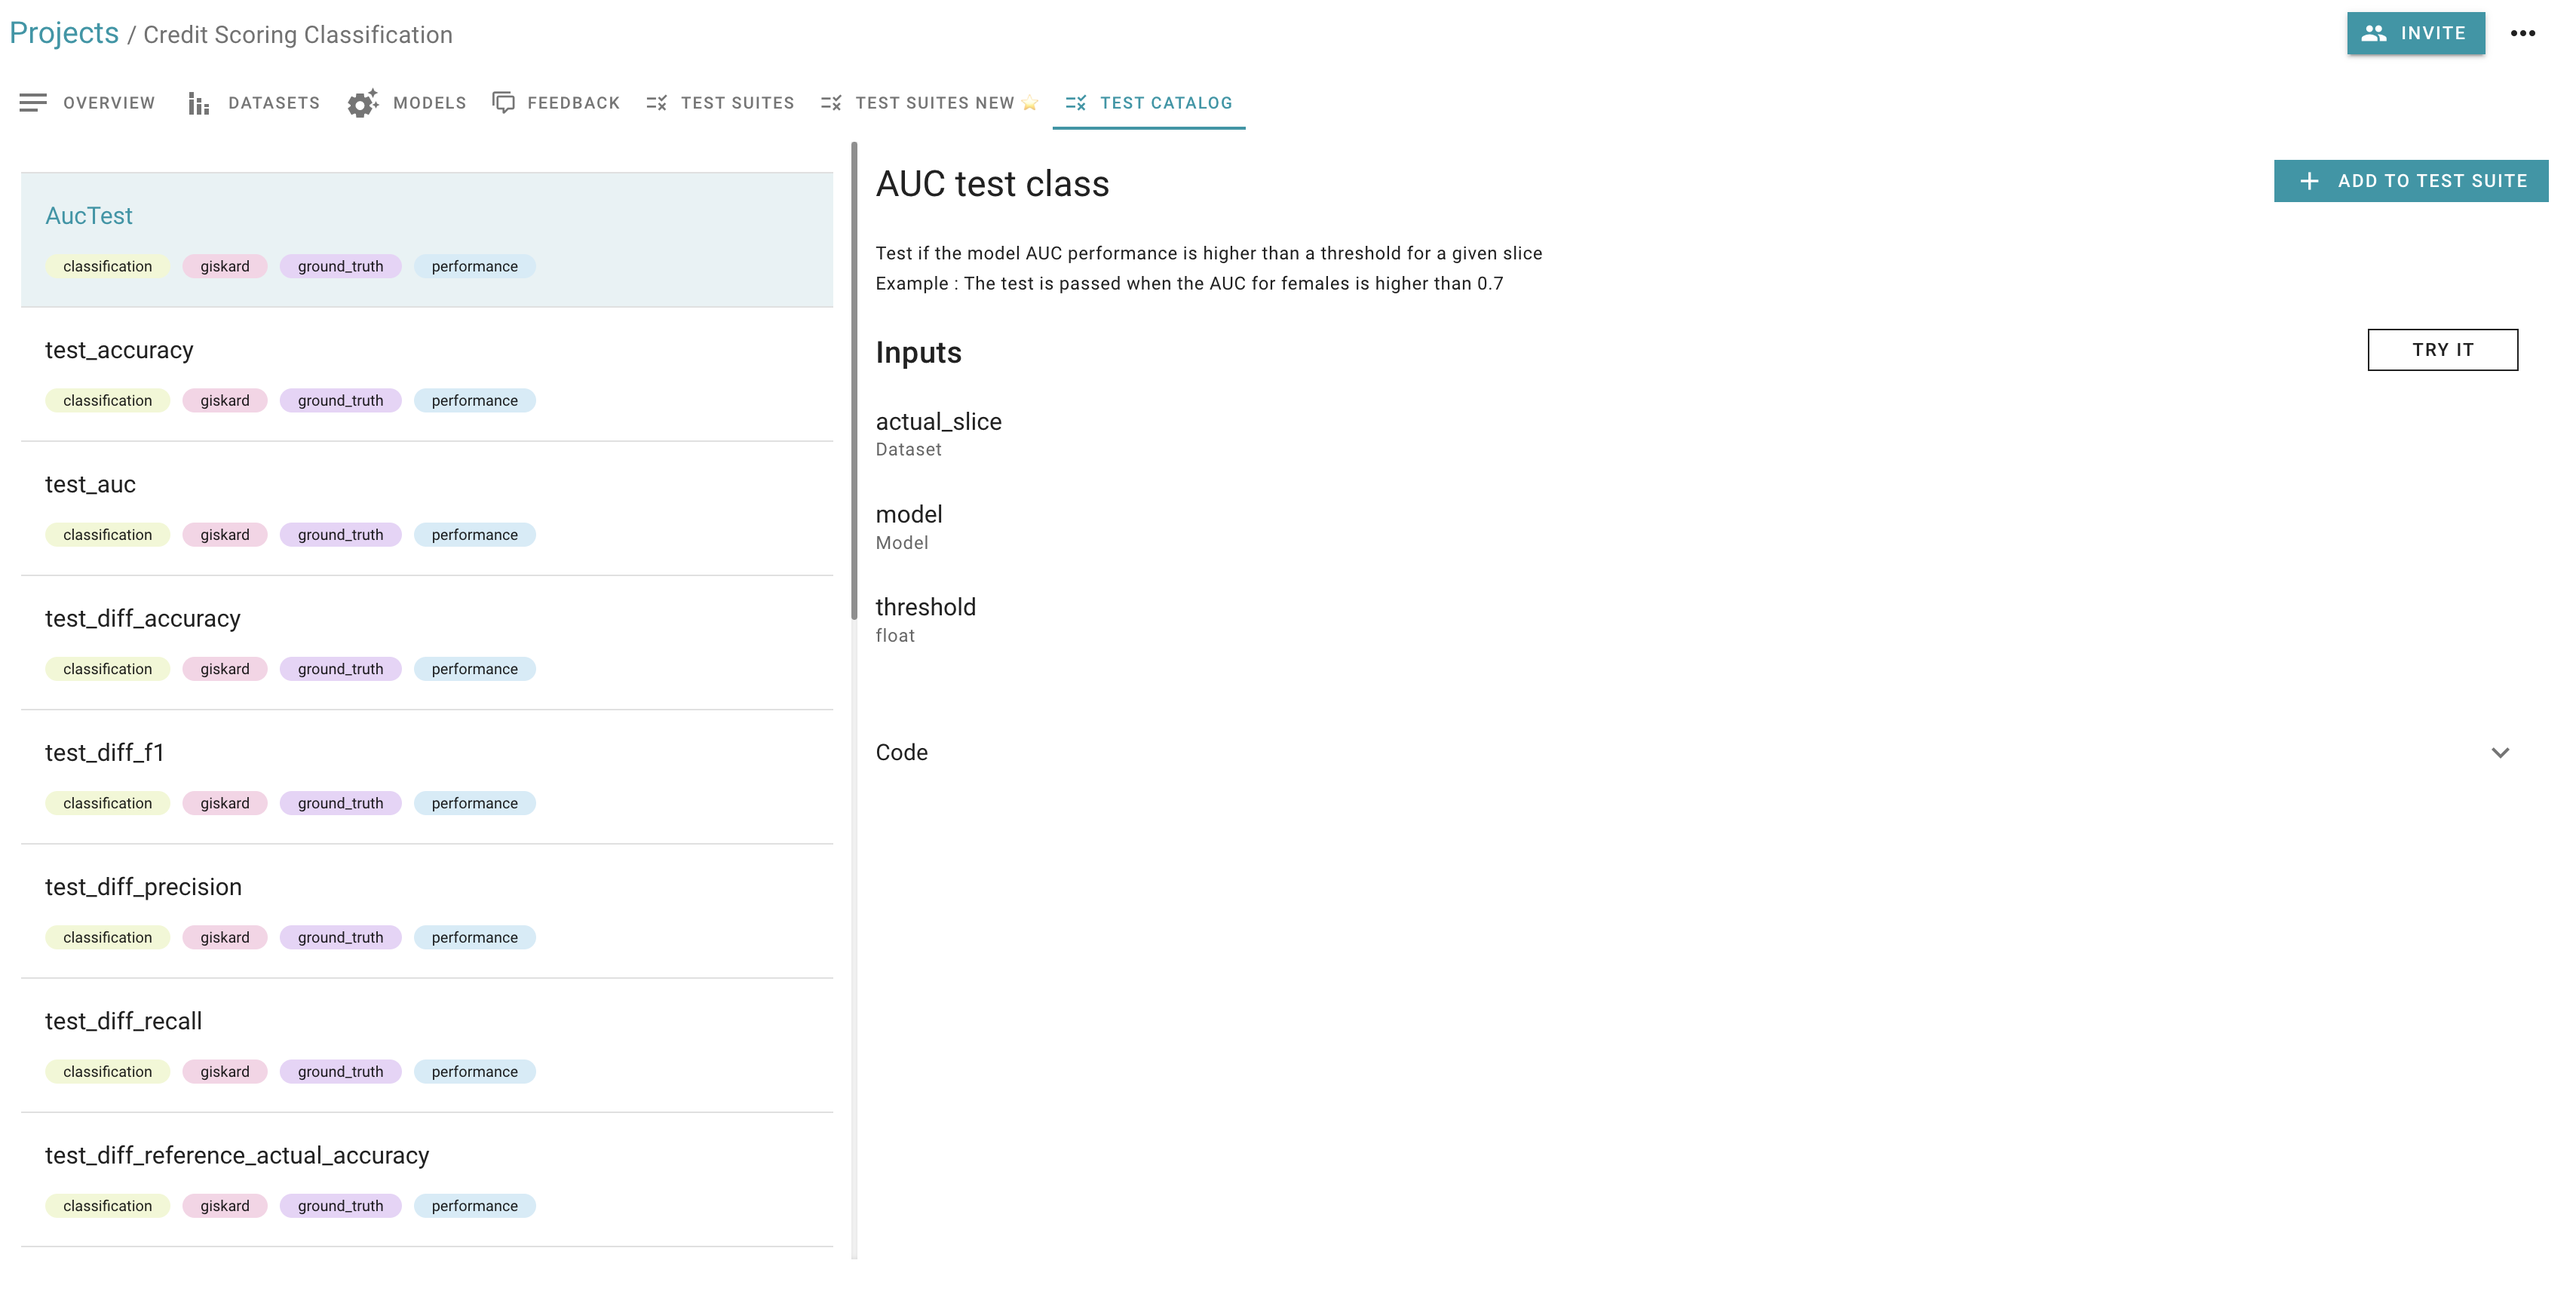
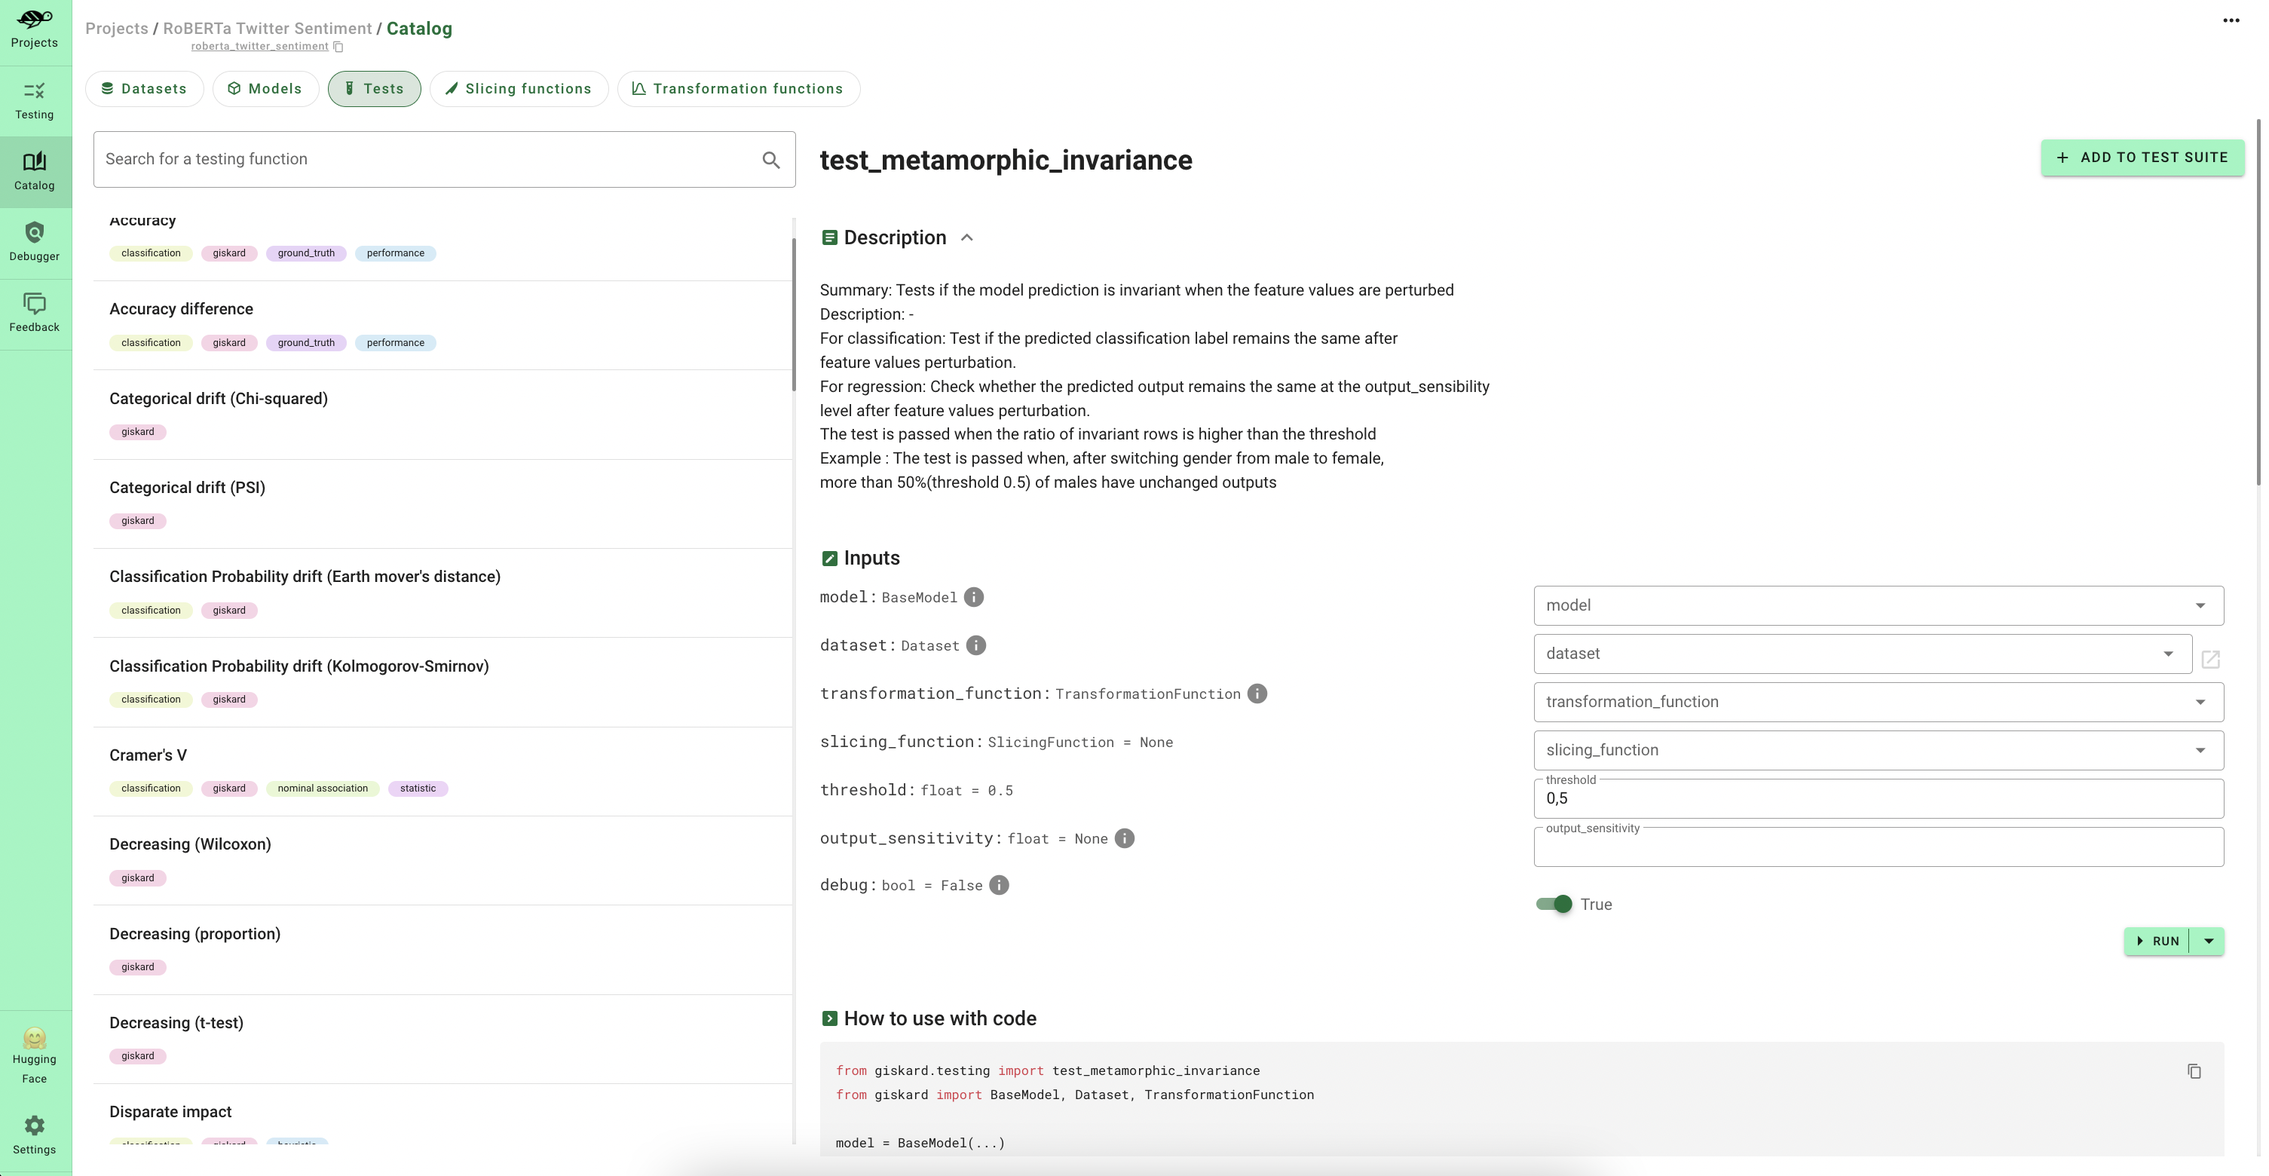
add domain specific tests

diff --git a/docs/giskard_hub/write_and_debug_tests/index.md b/docs/giskard_hub/write_and_debug_tests/index.md
@@ -1,15 +1,42 @@
-# 👨🔬 Write and debug tests
+# 👨🔬 Add domain-specific tests
 
-[//]: # (TODO: create content, needs to include screenshots and instructions)
+Now that you [scan](../../open_source/scan/index.md) your model, you've got a first test suite covering the biggest [vulnerabilities](../../knowledge/llm_vulnerabilities/index.rst). But, real models usually need **hundreds of business specific tests** to be ready for production. While the tests creation task can be fastidious, Giskard enables you to **semi-automate** this process.
 
-[//]: # (- How to write a test?)
+In this section, we'll see how to enrich the tests you initially created from the [scan](../../open_source/scan/index.md) by:
+* Adding tests from the automatic model insights
+* Adding tests from the Giskard catalog
 
-[//]: # (    - From the catalog)
 
-[//]: # (    - Load from Python)
+## Add tests from the automatic model insights
 
-[//]: # (    - From the push feature)
+While you [debug](../inspect/index.md) your test suite, Giskard provides some magic notifications displaying a bulb 💡. These model insights covers various issues such as:
+* Words or features that **contributes** to the incorrect prediction
+* **Unrobust** predictions
+* **Overconfident** predictions
+* **Underconfident** predictions
 
-[//]: # (- Debug your test)
+By clicking on these small bulbs 💡, you have the possibility to:
+* Add new **tests** to your test suite: this enables you add new tests in 1 click
+* **Save** the data slice: this enables you to add this slice as a parameter of your future tests
+* Directly **debug** the data slice: this enables you to analize if the model insight is general to the whole slice
 
-Coming soon!
+![Push](../../assets/push.png)
+
+## Add tests from the Giskard catalog
+
+The Giskard catalog is an **open-source** catalog that is constantly updated by the community. It proposes some **pre-made tests** that you can easily configure depending on your business case by putting some domain specific slices & transformations or evalution criteria as **inputs** of your tests.
+
+To add tests from the catalog, click on "add test" in your test suite tab. This will redirect you to the catalog showing all Giskard tests. You then have the possibility to run your test before adding it to your suite. 
+
+> ⚠ Warning
+> * If you add a test **without** specifying the input of your test, you'll be asked to define the input at **suite execution time**. This input will become a *suite input*. For instance, model are great suite input if you can to [compare different model](../compare_models/index.md) with the same test suite.
+> * If you add a test by **specifying the input** of your test, you won't be asked to define it at suite 
+> execution time. This input becomes a *fixed value* of your suite. For instance, data slices or thresholds are 
+> great fixed values because they are inherent to your suite.
+>
+> 💡 You can also define test input as *suite input* or *fixed value* by editing the parameters of your test 
+> suite.
+
+![Catalog](../../assets/catalog.png)
+
+> 💡 Try in live with our Hugging Face space: [here](https://giskardai-giskard.hf.space/main/projects)

diff --git a/docs/giskard_hub/inspect/index.md b/docs/giskard_hub/inspect/index.md
@@ -1,4 +1,4 @@
-# 🧐 Inspect failing tests
+# 🧐 Debug your tests with automatic model insights
 
 [//]: # (TODO: create content, needs to include screenshots and instructions)
 
